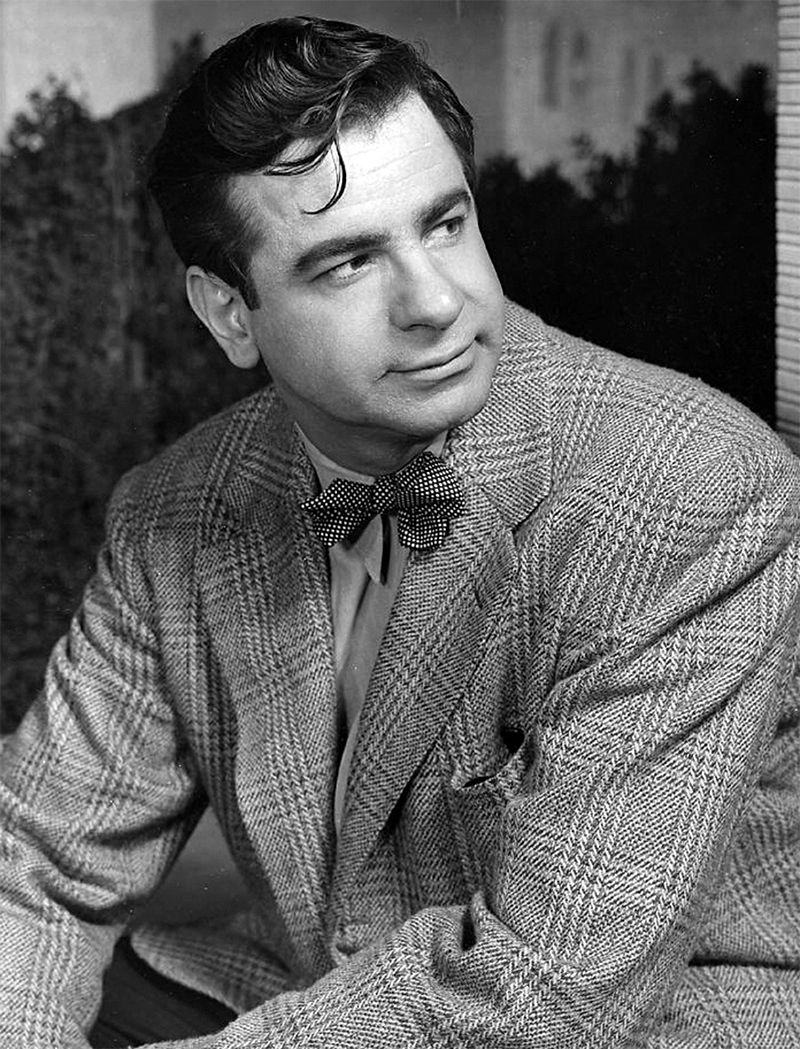
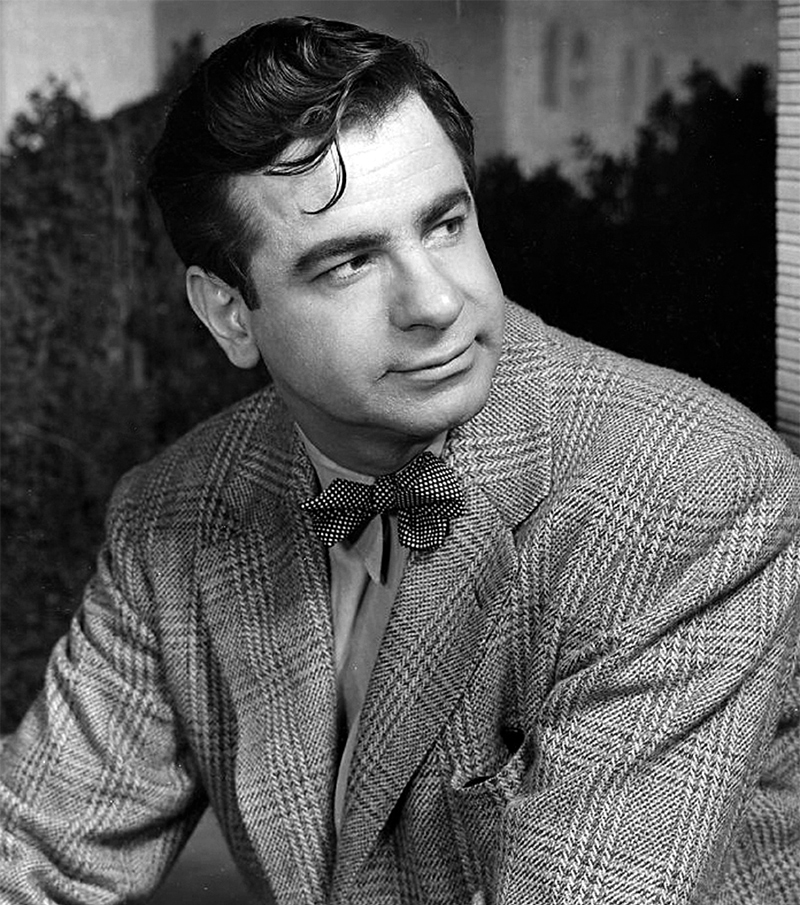
Add timeline

diff --git a/ResponsiveWebDesign/Tribute/index.html b/ResponsiveWebDesign/Tribute/index.html
@@ -24,9 +24,24 @@
 
             <div class="containerTimeline">
                 <h2 class="center">The timeline of Walter Matthau's life:</h2>
-                <ul>
-
-                </ul>
+                    <ul id="tribute-info">
+                        <li><strong>1920</strong> &#8211; Born as Walter John Matthow in New York City's Lower East Side</li>
+                        <li><strong>1952</strong> &#8211; Appears in the pilot of "Mister Peepers"</li>
+                        <li><strong>1955</strong> &#8211; Makes his motion picture debut in "The Kentuckian"</li>
+                        <li><strong>1960</strong> &#8211; Directs a low-budget movie called "The Gangster Story"</li>
+                        <li><strong>1966</strong> &#8211; Appears in "The Fortune Cookie", the first movie together with his long-time co-star and friend Jack Lemmon</li>
+                        <li><strong>1966</strong> &#8211; Wins an Oscar award for Best Supporting Actor for his role in "The Fortune Cookie"</li>
+                        <li><strong>1968</strong> &#8211; Appears in "The Odd Couple" with Jack Lemmon</li>
+                        <li><strong>1969</strong> &#8211; Appears in "Hello, Dolly!" and "Cactus Flower"</li>
+                        <li><strong>1971</strong> &#8211; Appears in "Kotch" and is nominated for an Oscar award for Best Actor for his role</li>
+                        <li><strong>1975</strong> &#8211; Appears in "The Sunshine Boys" and wins a Golden Globe award for Best Actor for his role</li>
+                        <li><strong>1993</strong> &#8211; Appears in "Grumpy Old Men" with Jack Lemmon</li>
+                        <li><strong>1994</strong> &#8211; Plays Albert Einstein in "I.Q."</li>
+                        <li><strong>1995</strong> &#8211; Appears in "Grumpier Old Men" with Jack Lemmon</li>
+                        <li><strong>1998</strong> &#8211; Appears in "The Odd Couple II", his final movie together with Jack Lemmon</li>
+                        <li><strong>2000</strong> &#8211; Appears in "Hanging Up", his final movie role</li>
+                        <li><strong>2000</strong> &#8211; Dies at St. John's Health Center in Santa Monica</li>
+                    </ul>
             </div>
     </div>
 

diff --git a/ResponsiveWebDesign/Tribute/css/style.css b/ResponsiveWebDesign/Tribute/css/style.css
@@ -44,13 +44,13 @@ header {
 
 #img-div {
     margin: 0 auto;
-    padding: 20px;
+    padding: 25px;
     background-color: #fff;
     -webkit-box-shadow: 0 0 65px -10px rgba(0, 0, 0, 0.65);
     -moz-box-shadow: 0 0 65px -10px rgba(0, 0, 0, 0.65);
     box-shadow: 0 0 65px -10px rgba(0, 0, 0, 0.65);
     transition: box-shadow .2s ease, filter .2s ease;
-    width: 70%;
+    width: 42%;
 }
 
 #img-div img {
@@ -60,5 +60,5 @@ header {
 #img-caption{
     font-size: 25px;
     padding-top: 20px;
-    padding-bottom: 10px;
+    padding-bottom: 5px;
 }
